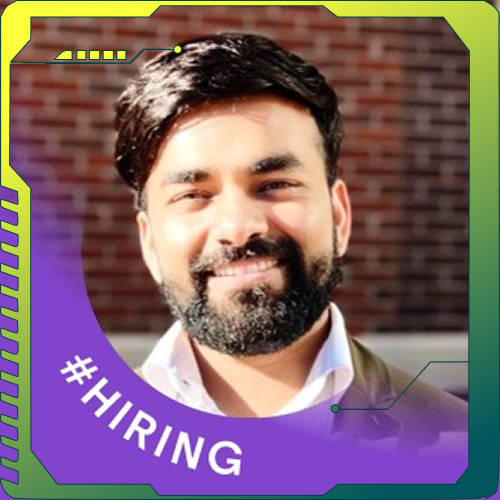
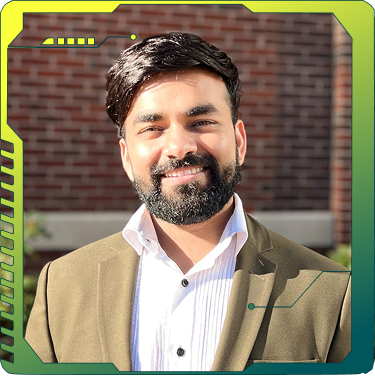
new beneit, mentor pic change,

diff --git a/benefit.html b/benefit.html
@@ -111,6 +111,14 @@
                     <p>
                         Security Credits worth $2000
                     </p>
+                    <a href="https://docs.google.com/document/d/e/2PACX-1vRxdxv26H4MrPnWZJHApqk8bppkz29IGaVgEXJ_Pki1miROvljVRvihQDC4HIQ6ln_ZkiI04JwBg6m2/pub"
+                        target="_blank" class="d-flex justify-content-center">
+                        <button class="bounty-detail d-flex cyber-button-small bg-red fg-yellow">
+                            Know More
+                            <span class="glitchtext">Bountiesssss</span>
+                            <span class="tag"></span>
+                        </button>
+                    </a>
                 </div>
             </div>
             <div class="sponsor-benefit-box cyber-tile-small cyber-tile-clip-small bg-yellow">
@@ -363,6 +371,16 @@
                 <h5 class="sponsor-name fg-yellow d-flex justify-content-center">
                     SecureDApp
                 </h5>
+                <div class="offer">
+                    <a href="https://docs.google.com/document/d/e/2PACX-1vTYqlQdLpWUuwsmAQXmFGVAYMb0J9mf_4dRwvCGe3-CxQaZroRL8H74RhxgNeOuzR6o86eOmCJKSzZ6/pub"
+                        target="_blank" class="d-flex justify-content-center">
+                        <button class="bounty-detail d-flex cyber-button-small bg-red fg-yellow">
+                            Know More
+                            <span class="glitchtext">Bountiesssss</span>
+                            <span class="tag"></span>
+                        </button>
+                    </a>
+                </div>
             </div>
 
             <div class="sponsor-benefit-box cyber-tile-small cyber-tile-clip-small bg-yellow">

diff --git a/assets/css/styles.css b/assets/css/styles.css
@@ -307,6 +307,7 @@ section {
   background: url("title-box.svg") no-repeat;
   background-size: contain;
   height: 70px;
+  margin-left: 14px;
   padding: 1rem;
   width: fit-content;
   color: var(--yellow);
@@ -2073,6 +2074,10 @@ div.mentor-name p.tag.mentor {
     margin-top: 2.5rem;
   }
 
+  .cyber-title-box{
+    margin-left: -14px;
+  }
+
   .splide img {
     width: 60vw;
   }
@@ -2355,7 +2360,7 @@ div.mentor-name p.tag.mentor {
 
   .cyber-title-box {
     height: 40px;
-    left: -11px;
+    left: -14px;
   }
 
   .about-us {
